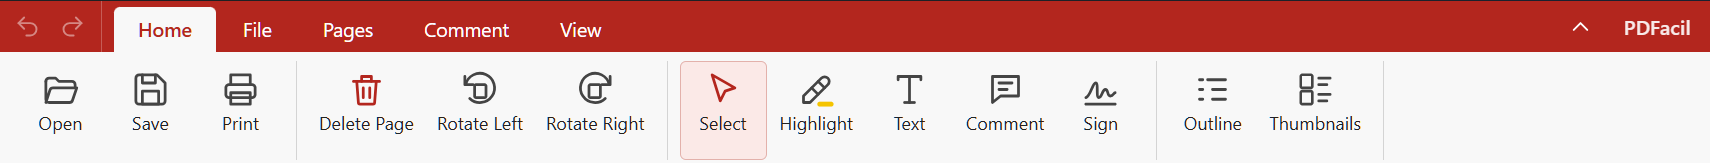
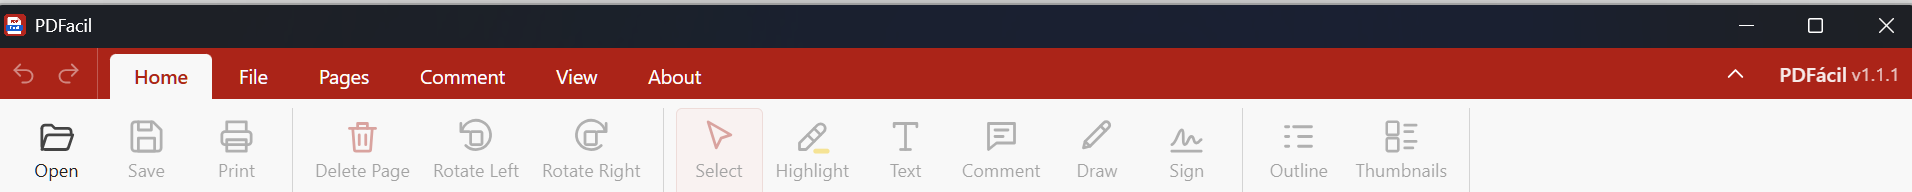
version about

diff --git a/Claude outputs/pdfacil-1.html b/Claude outputs/pdfacil-1.html
@@ -1,0 +1,116 @@
+<!DOCTYPE html>
+<html lang="en">
+<head>
+<meta charset="utf-8">
+<meta name="viewport" content="width=device-width, initial-scale=1">
+<title>PDFacil: an easy PDF viewer</title>
+<meta name="description" content="PDFacil is a free PDF viewer for Windows and Mac, designed for researchers who read papers in PDF format.">
[1 lines of base64/hex data omitted]
+<style>
+  /* All sizes are in rem, so this one line sets the overall text size (130% of the browser default). */
+  html { font-size: 130%; }
+  :root { --red: #b3261e; --blue: #1a5fd0; --text: #222; --muted: #666; --line: #e3e3e3; }
+  * { box-sizing: border-box; }
+  body { margin: 0; font-family: "Segoe UI", system-ui, -apple-system, Arial, sans-serif; color: var(--text); background: #f6f6f6; line-height: 1.55; font-size: 1rem; }
+  main { max-width: 54rem; margin: 0 auto; padding: 2.5rem 1.5rem 3.5rem; }
+  header { display: flex; align-items: center; gap: 1.1rem; }
+  header img { width: 4.5rem; height: 4.5rem; }
+  h1 { margin: 0; font-size: 2.5rem; letter-spacing: -0.03em; line-height: 1.1; }
+  h1 .pdf { color: var(--red); }
+  .tag { margin: 0.25rem 0 0; color: var(--muted); }
+  .meta { margin: 1rem 0 0; color: var(--muted); font-size: 0.85rem; }
+  .meta strong { color: var(--text); font-weight: 600; }
+  h2 { font-size: 1.3rem; margin: 2.4rem 0 0.6rem; }
+  p { margin: 0 0 0.75rem; }
+  a { color: var(--blue); }
+  .shot { margin: 1.4rem 0 0.4rem; background: #fff; border: 1px solid var(--line); border-radius: 10px; padding: 0.5rem; box-shadow: 0 2px 10px rgba(0,0,0,.06); }
+  .shot img { display: block; width: 100%; height: auto; border-radius: 4px; }
+  .caption { color: var(--muted); font-size: 0.8rem; text-align: center; margin-bottom: 0; }
+  .download { display: flex; flex-wrap: wrap; align-items: center; gap: 1rem; margin: 0.9rem 0 1rem; padding: 1.25rem 1.4rem; background: #fff; border: 1px solid var(--line); border-radius: 10px; }
+  .btn { display: inline-block; background: var(--blue); color: #fff; text-decoration: none; font-weight: 600; padding: 0.65rem 1.6rem; border-radius: 6px; }
+  .btn:hover { background: #154ea9; }
+  .download small { color: var(--muted); font-size: 0.8rem; }
+  ol, ul { margin: 0 0 0.75rem; padding-left: 1.4rem; }
+  li { margin: 0.2rem 0; }
+  code { font-family: Consolas, "Courier New", monospace; background: #ececec; padding: 0.05em 0.3em; border-radius: 3px; font-size: 0.92em; }
+  .aside { color: var(--muted); font-size: 0.85rem; margin: 0 0 0 0.1rem; }
+  pre { font-family: Consolas, Menlo, "Courier New", monospace; background: #24292f; color: #f0f0f0; padding: 0.75rem 1rem; border-radius: 8px; font-size: 0.85rem; line-height: 1.5; overflow-x: auto; margin: 0.5rem 0 0.4rem; }
+  .note { background: #fff8e1; border: 1px solid #f0dfa0; border-radius: 8px; padding: 0.6rem 0.9rem; font-size: 0.9rem; }
+
+  /* repository card, in the style commonly used to point to a code repository */
+  .repo { display: flex; align-items: center; gap: 1rem; padding: 1rem 1.25rem; background: #fff; border: 1px solid #d0d7de; border-radius: 10px; text-decoration: none; color: var(--text); margin: 0.6rem 0 0; }
+  .repo:hover { border-color: #8c959f; box-shadow: 0 2px 10px rgba(0,0,0,.06); }
+  .repo .icon { width: 3rem; height: 3rem; flex: none; border-radius: 10px; background: #24292f; display: grid; place-items: center; }
+  .repo .icon svg { width: 1.7rem; height: 1.7rem; }
+  .repo .info { flex: 1; min-width: 0; }
+  .repo .url { font-weight: 600; color: var(--blue); font-size: 1rem; overflow-wrap: anywhere; }
+  .repo .go { flex: none; background: #24292f; color: #fff; font-weight: 600; font-size: 0.85rem; padding: 0.5rem 1rem; border-radius: 6px; white-space: nowrap; }
+  .repo:hover .go { background: #000; }
+  @media (max-width: 640px) { .repo .go { display: none; } }
+</style>
+</head>
+<body>
+<main>
+  <header>
[1 lines of base64/hex data omitted]
+    <div>
+      <h1><span class="pdf">PDF</span>acil</h1>
+      <p class="tag">An easy PDF viewer (<em>fácil</em>: 'easy', in Spanish)</p>
+    </div>
+  </header>
+  <p class="meta"><strong>Version 1.1.1</strong> &middot; November 2026 &middot; Created by Uri Simonsohn with Claude Opus 5.5</p>
+
+  <p style="margin-top:1.5rem">PDFacil is a PDF viewer for Windows and Mac, designed for researchers who read papers in PDF format.
+  The Home menu on top has all the tools one needs:</p>
+
+  <div class="shot"><img src="menu_screenshot.png" alt="The PDFacil Home menu: Open, Save, Print, Delete Page, Rotate Left, Rotate Right, Select, Highlight, Text, Comment, Outline, Thumbnails"></div>
+  <p class="caption">The Home menu</p>
+
+
+  <h2>Installation on Windows</h2>
+  <div class="download">
+    <a class="btn" href="PDFacil.zip" download>Download PDFacil</a>
+    <small>Version 1.1.1 &middot; zip file, about 150 MB &middot; Windows 10 and 11 (64-bit)</small>
+  </div>
+  <ol>
+    <li>Download the zip file above.</li>
+    <li>Unzip it.</li>
+    <li>No install needed: just run <code>PDFacil.exe</code> inside the unzipped folder. Keep all the files in that folder together.</li>
+  </ol>
+  <p class="note">The first time you run it, Windows may say "Windows protected your PC", because the app is not code-signed.
+  Click <strong>More info</strong>, then <strong>Run anyway</strong>.</p>
+
+  <h2 id="mac">Installation on a Mac</h2>
+  <p>There is no ready-made Mac download yet, but you can build PDFacil on your Mac in a few minutes, without any programming:</p>
+  <ol>
+    <li>Install <a href="https://nodejs.org/">Node.js</a> (version 20 or newer).</li>
+    <li>Open <strong>Terminal</strong> and run these lines one by one. The first time you use <code>git</code>, macOS offers to install it; click <strong>Install</strong>.
+<pre>git clone https://github.com/urisohn/PDFacil.git
+cd PDFacil
+npm install
+npm run dist</pre></li>
+    <li>Open the new <code>PDFacil/dist/mac-arm64</code> folder (<code>dist/mac</code> on older Intel Macs) and drag <code>PDFacil.app</code> into your Applications folder.</li>
+  </ol>
+  <p>More details, including what to do if macOS refuses to open the app, are in the
+  <a href="https://github.com/urisohn/PDFacil#build-from-source-mac-or-windows">instructions on GitHub</a>.</p>
+
+  <h2>Make PDFacil your default PDF viewer</h2>
+  <p><strong>Windows:</strong> right-click any PDF file, choose <strong>Open with &gt; Choose another app</strong>,
+  browse to <code>PDFacil.exe</code>, select it, and tick <strong>Always</strong>.</p>
+  <p><strong>Mac:</strong> select any PDF in Finder, choose <strong>File &gt; Get Info</strong>, pick PDFacil under
+  <strong>Open with</strong>, and click <strong>Change All</strong>.</p>
+
+  <h2>Open source</h2>
+  <p>The source code of PDFacil is on GitHub:</p>
+  <a class="repo" href="https://github.com/urisohn/PDFacil">
+    <div class="icon" aria-hidden="true">
+      <svg viewBox="0 0 24 24" fill="none" stroke="#fff" stroke-width="2" stroke-linecap="round" stroke-linejoin="round"><path d="m8 7-5 5 5 5"/><path d="m16 7 5 5-5 5"/><path d="m14 4-4 16"/></svg>
+    </div>
+    <div class="info">
+      <div class="url">https://github.com/urisohn/PDFacil</div>
+    </div>
+    <div class="go">View on GitHub</div>
+  </a>
+</main>
+</body>
+</html>

diff --git a/src/app.js b/src/app.js
@@ -2544,12 +2544,11 @@ async function refreshRecent() {
   list.forEach((r, k) => {
     const { name, dir } = split(r.path);
     const tr = document.createElement('tr');
-    tr.title = r.path;
     tr.innerHTML = '<td class="n"></td><td class="dir"></td><td class="file"></td><td class="time"></td>';
     tr.children[0].textContent = k + 1;
-    // Left-to-right marks keep the path readable while it is cut off at the start.
-    tr.children[1].textContent = `\u200E${dir}\u200E`;
+    tr.children[1].textContent = dir;
     tr.children[2].textContent = name;
+    tr.children[2].title = r.path;
     tr.children[3].textContent = formatWhen(r.time);
     if (r.time) tr.children[3].title = new Date(r.time).toLocaleString();
     tr.onclick = () => openPath(r.path);
@@ -2562,7 +2561,56 @@ async function refreshRecent() {
     };
     tbody.append(tr);
   });
+  requestAnimationFrame(fitRecentPaths);
 }
+
+// Folder paths in the recent files table always show their beginning. If a path is too long,
+// its text shrinks (down to half the normal size); if it still does not fit, the end is cut with "…".
+const pathCanvas = document.createElement('canvas').getContext('2d');
+function fitRecentPaths() {
+  const cells = $$('#recentTable td.dir');
+  if (!cells.length || !cells[0].offsetParent) return;
+  const cs = getComputedStyle(cells[0]);
+  const base = parseFloat(getComputedStyle($('#recentTable')).fontSize);
+  const pad = parseFloat(cs.paddingLeft) + parseFloat(cs.paddingRight);
+  const avail = cells[0].clientWidth - pad - 2;
+  pathCanvas.font = `${cs.fontWeight} ${base}px ${cs.fontFamily}`;
+  for (const td of cells) {
+    const w = pathCanvas.measureText(td.textContent).width;
+    const size = w <= avail ? base : Math.max(base * 0.5, Math.floor(((base * avail) / w) * 10) / 10);
+    td.style.fontSize = `${size}px`;
+  }
+}
+new ResizeObserver(() => fitRecentPaths()).observe($('#recentTable'));
+
+// Hovering over a folder path that is cut off shows the whole path in a popup.
+const pathTip = document.createElement('div');
+pathTip.id = 'pathTip';
+pathTip.hidden = true;
+document.body.append(pathTip);
+let pathTipTimer = null;
+const hidePathTip = () => {
+  clearTimeout(pathTipTimer);
+  pathTip.hidden = true;
+};
+$('#recentTable').addEventListener('mouseover', (e) => {
+  const td = e.target.closest('td.dir');
+  if (!td) return hidePathTip();
+  if (td.scrollWidth <= td.clientWidth + 1) return hidePathTip(); // fully visible: no popup
+  clearTimeout(pathTipTimer);
+  pathTipTimer = setTimeout(() => {
+    pathTip.textContent = td.textContent;
+    pathTip.hidden = false;
+    const r = td.getBoundingClientRect();
+    const t = pathTip.getBoundingClientRect();
+    pathTip.style.left = `${Math.max(8, Math.min(r.left, innerWidth - t.width - 8))}px`;
+    const below = r.bottom + 6;
+    pathTip.style.top = `${below + t.height > innerHeight - 8 ? r.top - t.height - 6 : below}px`;
+  }, 250);
+});
+$('#recentTable').addEventListener('mouseleave', hidePathTip);
+$('.recent-scroll').addEventListener('scroll', hidePathTip);
+window.addEventListener('mousedown', hidePathTip);
 
 // Highlight the drop box while a file is dragged over the start screen.
 const dropBox = $('#dropBox');
@@ -2639,7 +2687,7 @@ try {
 } catch {}
 
 function showPanel(tab) {
-  $$('.tab').forEach((x) => x.classList.toggle('active', x.dataset.tab === tab));
+  $$('.tab[data-tab]').forEach((x) => x.classList.toggle('active', x.dataset.tab === tab));
   $$('.panel').forEach((p) => p.classList.toggle('active', p.dataset.panel === tab));
 }
 
@@ -2662,7 +2710,7 @@ function setRibbonCollapsed(v) {
   if (S.pdf && S.fitMode) setTimeout(applyFit, 0);
 }
 
-$$('.tab').forEach((t) => {
+$$('.tab[data-tab]').forEach((t) => {
   t.addEventListener('click', () => {
     if (ribbonCollapsed) {
       // Collapsed: show the ribbon temporarily on top of the document.
@@ -2850,7 +2898,10 @@ api.onSaveAndClose(saveAllAndClose);
 $('#aboutDlg').addEventListener('mousedown', (e) => {
   if (e.target.id === 'aboutDlg') commands.closeAbout();
 });
-api.version().then((v) => ($('#aboutVersion').textContent = v));
+api.version().then((v) => {
+  $('#aboutVersion').textContent = v;
+  $('#brandVer').textContent = `v${v}`;
+});
 
 for (const which of ['thumbs', 'outline']) {
   let v = null;

diff --git a/src/styles.css b/src/styles.css
@@ -214,7 +214,8 @@ body.tool-highlight .textLayer ::selection { background: rgba(255, 220, 0, .45);
 #recentTable th { position: sticky; top: 0; background: #e6e6e6; text-align: left; font-weight: 600; color: #666; padding: 6px 10px; border-bottom: 1px solid #d6d6d6; font-size: 12px; }
 #recentTable td { padding: 6px 10px; border-bottom: 1px solid #e4e4e4; white-space: nowrap; overflow: hidden; text-overflow: ellipsis; }
 #recentTable td.n { color: #999; text-align: right; }
-#recentTable td.dir { direction: rtl; text-align: left; color: #888; }
+#recentTable th:first-child { text-align: center; }
+#recentTable td.dir { color: #888; }
 #recentTable td.file { color: #333; }
 #recentTable td.time { color: #888; }
 #recentTable tbody tr { cursor: pointer; }
@@ -317,7 +318,7 @@ body.nodoc #sidebar, body.nodoc #outlinePanel { display: none; }
    (first the time, then the folder, then the counter). */
 @container (max-width: 820px) {
   #recentTable col.c-dir { width: 24%; }
-  #recentTable col.c-time { width: 118px; }
+  #recentTable col.c-time { width: 136px; }
 }
 @container (max-width: 640px) {
   #recentTable col.c-time { width: 0; }
@@ -425,3 +426,12 @@ button.pen-eraser.active { background: var(--brand-light); border-color: #e3b1ab
 #penBar .pb-eraser svg { width: 16px; height: 16px; }
 #penBar .pb-done { border: 0; background: var(--brand); color: #fff; border-radius: 6px; padding: 5px 14px; font-size: 12px; cursor: pointer; }
 #penBar .pb-done:hover { background: var(--brand-dark); }
+
+/* popup with the full folder path on the start screen */
+#pathTip { position: fixed; z-index: 1200; max-width: min(720px, 80vw); background: #2b2b2b; color: #fff; font-size: 12.5px; line-height: 1.4;
+  padding: 6px 10px; border-radius: 6px; box-shadow: 0 4px 14px rgba(0,0,0,.25); pointer-events: none; overflow-wrap: anywhere; }
+#pathTip[hidden] { display: none; }
+
+/* "About" sits in the tab row but opens a dialog instead of a ribbon panel */
+.tab.tab-link { font-weight: 400; }
+#brandVer { font-weight: 400; font-size: 12px; opacity: .8; margin-left: 3px; }

diff --git a/src/index.html b/src/index.html
@@ -22,9 +22,10 @@
       <button class="tab" data-tab="pages">Pages</button>
       <button class="tab" data-tab="comment">Comment</button>
       <button class="tab" data-tab="view">View</button>
+      <button class="tab tab-link" data-cmd="about" title="About PDFácil (F1)">About</button>
     </nav>
     <button id="ribbonToggle" title="Hide the ribbon (Ctrl+F1)"></button>
-    <div class="brand">PDFacil</div>
+    <div class="brand">PDFácil <span id="brandVer"></span></div>
   </header>
 
   <!-- Ribbon -->
@@ -86,12 +87,6 @@
           <button class="big" data-cmd="closeDoc" data-icon="close" title="Close this file (Ctrl+W)">Close</button>
         </div>
         <div class="glabel">Documents</div>
-      </div>
-      <div class="group">
-        <div class="items">
-          <button class="big" data-cmd="about" data-icon="info" title="About PDFacil (F1)">About</button>
-        </div>
-        <div class="glabel">Help</div>
       </div>
     </div>
 
